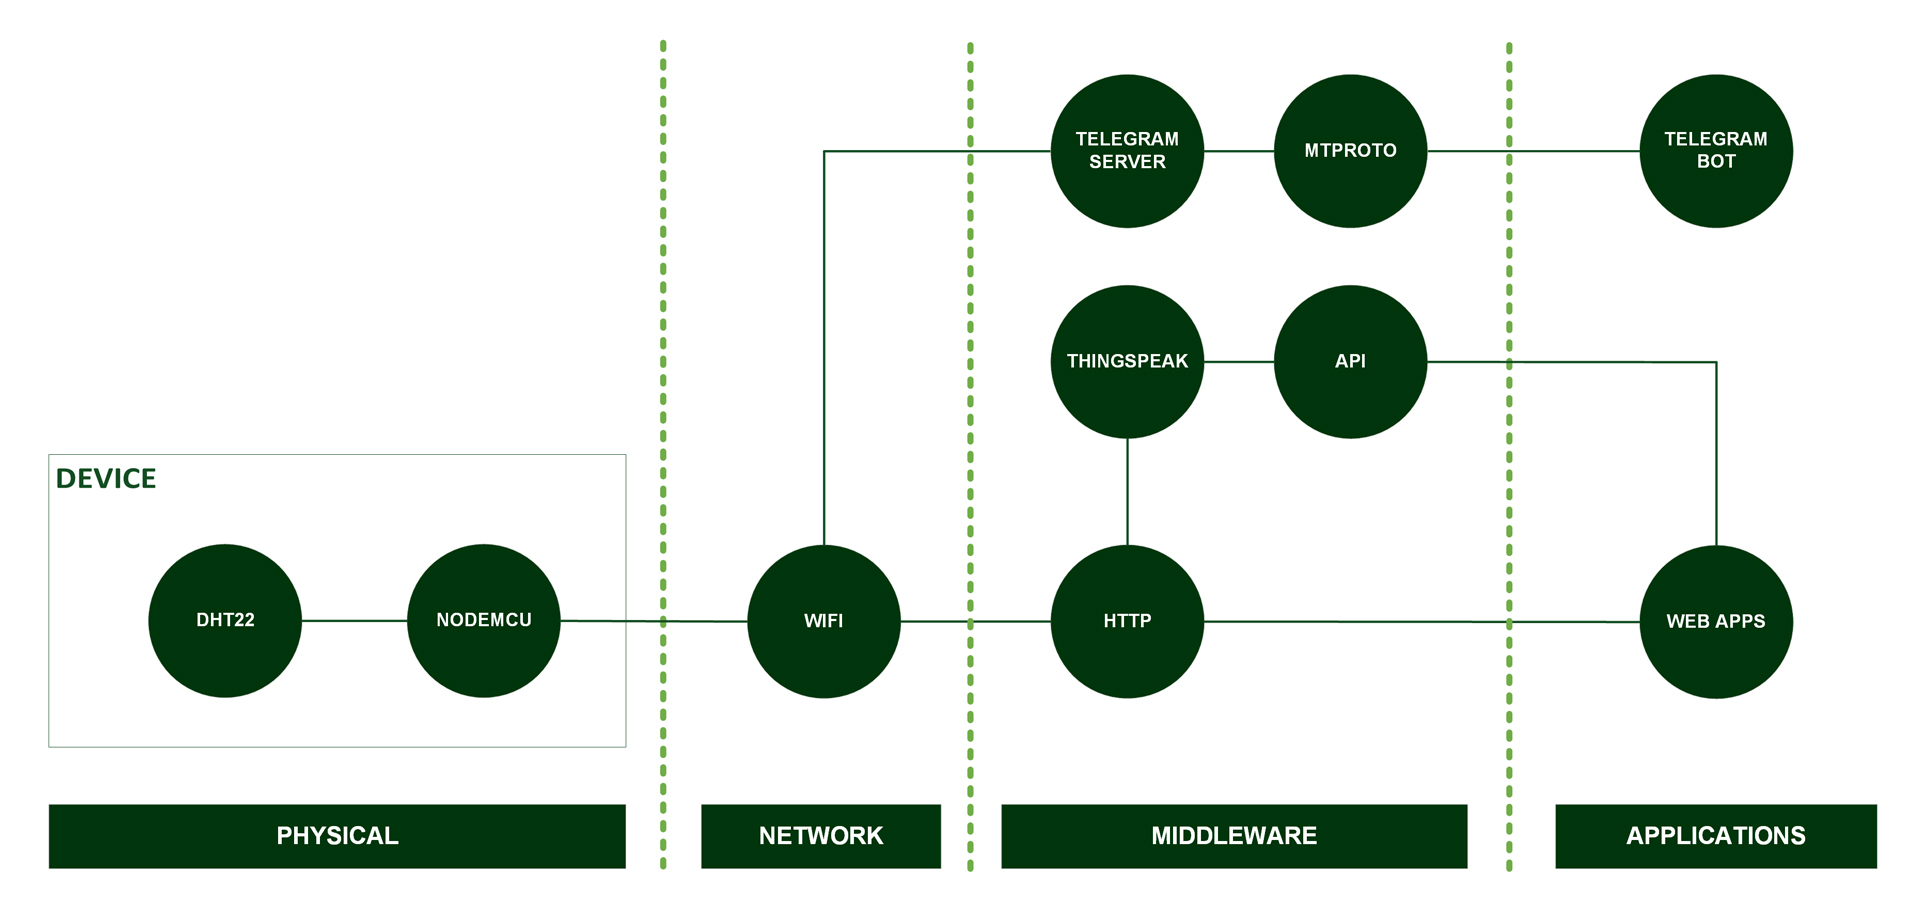
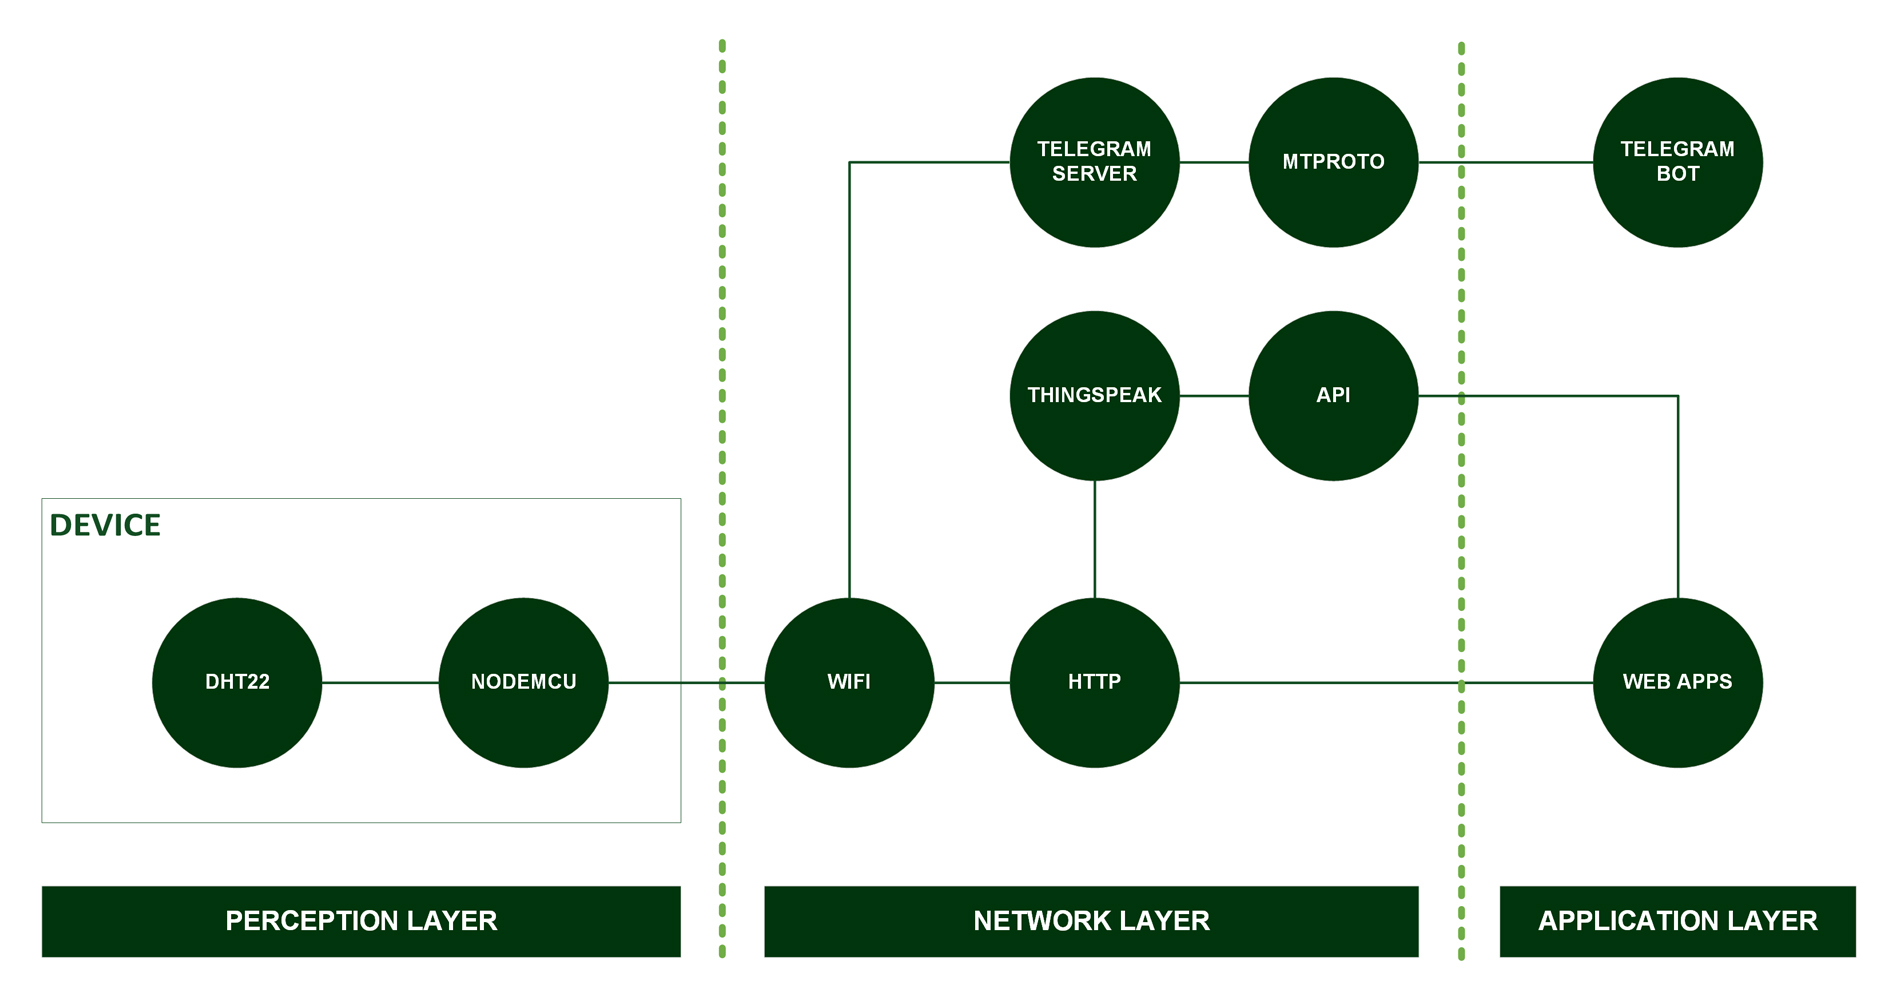
Update: 26/12/2024

diff --git a/README.md b/README.md
@@ -18,7 +18,7 @@ Janda bolong is a plant from the Araceae or taro species that can survive optima
 | Driver | CH340 USB Driver |
 | IoT Platform | ThingSpeak |
 | Communications Protocol | • Hypertext Transfer Protocol (HTTP)<br>• MTProto |
-| IoT Architecture | 4 Layer |
+| IoT Architecture | 3 Layer |
 | Framework | • Bootstrap<br>• Font-Awesome |
 | Programming Language | • C/C++<br>• JavaScript<br>• PHP |
 | Arduino Library | • ESP8266WiFi (default)<br>• ThingSpeak<br>• DHT_sensor_library<br>• CTBot<br>• ArduinoJson |

diff --git a/BACA.md b/BACA.md
@@ -18,7 +18,7 @@ Janda bolong adalah tanaman dari spesies Araceae atau talas-talasan yang dapat b
 | Driver | CH340 USB Driver |
 | Platform IoT | ThingSpeak |
 | Protokol Komunikasi | • Hypertext Transfer Protocol (HTTP)<br>• MTProto |
-| Arsitektur IoT | 4 Lapisan |
+| Arsitektur IoT | 3 Lapisan |
 | Kerangka Kerja | • Bootstrap<br>• Font-Awesome |
 | Bahasa Pemrograman | • C/C++<br>• JavaScript<br>• PHP |
 | Pustaka Arduino | • ESP8266WiFi (bawaan)<br>• ThingSpeak<br>• DHT_sensor_library<br>• CTBot<br>• ArduinoJson |
